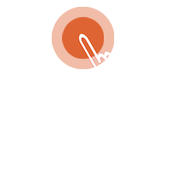
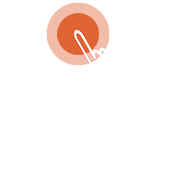
20181206-2

Changed region(s): [[0.2647, 0.0, 0.6471, 0.3824], [0.4118, 0.2941, 0.4412, 0.3235], [0.3235, 0.3235, 0.3529, 0.3529]]

diff --git a/LMReader/LMReader/Profile/ProfileMessage/LMProfileMessageViewController.m b/LMReader/LMReader/Profile/ProfileMessage/LMProfileMessageViewController.m
@@ -250,10 +250,17 @@ static NSString* cellIdentifier = @"cellIdentifier";
                         weakSelf.isEnd = YES;
                         [weakSelf.tableView setupNoMoreData];
                     }
+                    if (weakSelf.dataArray.count == 0) {
+                        LMRootViewController* rootVC = [LMRootViewController sharedRootViewController];
+                        [rootVC setupShowRedDot:NO index:3];
+                    }
                 }
             }
         } @catch (NSException *exception) {
             [weakSelf showMBProgressHUDWithText:NETWORKFAILEDALERT];
+            if (weakSelf.page == 0) {
+                [weakSelf showReloadButton];
+            }
         } @finally {
             if (loadMore) {
                 [weakSelf.tableView stopLoadMoreData];
@@ -263,8 +270,7 @@ static NSString* cellIdentifier = @"cellIdentifier";
             [weakSelf.tableView reloadData];
             [weakSelf hideNetworkLoadingView];
             if (weakSelf.page == 0 && weakSelf.dataArray.count == 0) {
-                [weakSelf showReloadButton];
-                [weakSelf showMBProgressHUDWithText:@"暂无数据"];
+                [weakSelf showMBProgressHUDWithText:@"暂无消息"];
             }
         }
     } failureBlock:^(NSError *failureError) {

diff --git a/LMReader/LMReader/BookShelf/LMBookShelfViewController.m b/LMReader/LMReader/BookShelf/LMBookShelfViewController.m
@@ -883,12 +883,17 @@ static NSString* listAddCellIdentifier = @"listAddCellIdentifier";
             //显示书架页用户指引
             if (row == 1 && self.dataArray.count > 1) {
                 if ([LMTool shouldShowBookShelfUserInstructionsView]) {
-                    CGFloat naviHeight = 20 + 44;
+                    CGFloat topHeight = 20 + 44;
                     if ([LMTool isBangsScreen]) {
-                        naviHeight = 44 + 44;
+                        topHeight = 44 + 44;
+                    }
+                    if (self.lastReadBook != nil) {
+                        topHeight += 60;
+                    }else {
+                        topHeight += 20;
                     }
                     LMBookShelfUserInstructionsView* shelfUIV = [[LMBookShelfUserInstructionsView alloc]init];
-                    [shelfUIV startShowWithBookPoint:CGPointMake(self.view.frame.size.width / 2, naviHeight + 20 + self.bookCoverHeight / 2)];
+                    [shelfUIV startShowWithBookPoint:CGPointMake(20 +  self.bookCoverWidth / 2, topHeight + self.bookCoverHeight / 2)];
                 }
             }
             

diff --git a/LMReader/LMReader/UserInstructions/BookShelfInstructions/LMBookShelfUserInstructionsView.m b/LMReader/LMReader/UserInstructions/BookShelfInstructions/LMBookShelfUserInstructionsView.m
@@ -54,12 +54,19 @@
     //
     [LMTool updateSetShowBookShelfUserInstructionsView];
     
-    UIImageView* pressIV = [[UIImageView alloc]initWithFrame:CGRectMake(bookPoint.x - 70, bookPoint.y - 140 *0.15, 140, 140)];
+    UIWindow* keyWindow = [UIApplication sharedApplication].keyWindow;
+    
+    CGFloat pressIVWidth = 140;
+    if (keyWindow.bounds.size.width == 320) {
+        pressIVWidth = 110;
+    }else if (keyWindow.bounds.size.width == 375) {
+        pressIVWidth = 120;
+    }
+    UIImageView* pressIV = [[UIImageView alloc]initWithFrame:CGRectMake(bookPoint.x - pressIVWidth / 2, bookPoint.y - pressIVWidth * 0.2, pressIVWidth, pressIVWidth)];
     pressIV.image = [UIImage imageNamed:@"userInstructions_BookShelf"];
     [self addSubview:pressIV];
     
     self.alpha = 0;
-    UIWindow* keyWindow = [UIApplication sharedApplication].keyWindow;
     [keyWindow addSubview:self];
     [UIView animateWithDuration:0.1 animations:^{
         self.alpha = 1;

diff --git a/LMReader/LMReader/Reader/LMReaderBookViewController.m b/LMReader/LMReader/Reader/LMReaderBookViewController.m
@@ -84,6 +84,8 @@
         [self.pageVC removeFromParentViewController];
         [self.pageVC.view removeFromSuperview];
         self.pageVC = nil;
+        //
+        [self saveReaderRecorder];
     }
     
 //    self.changeSourceBtn.hidden = YES;
